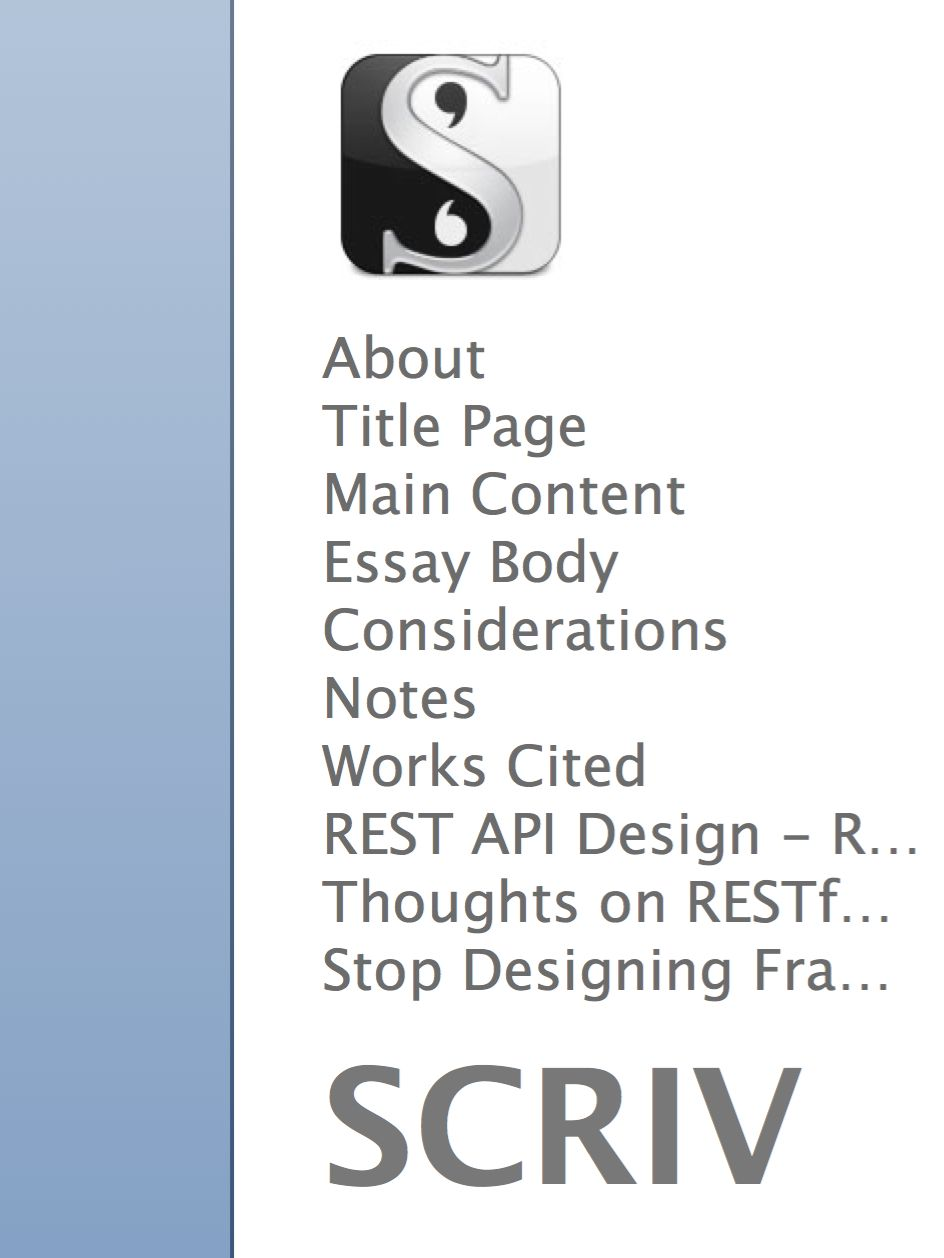
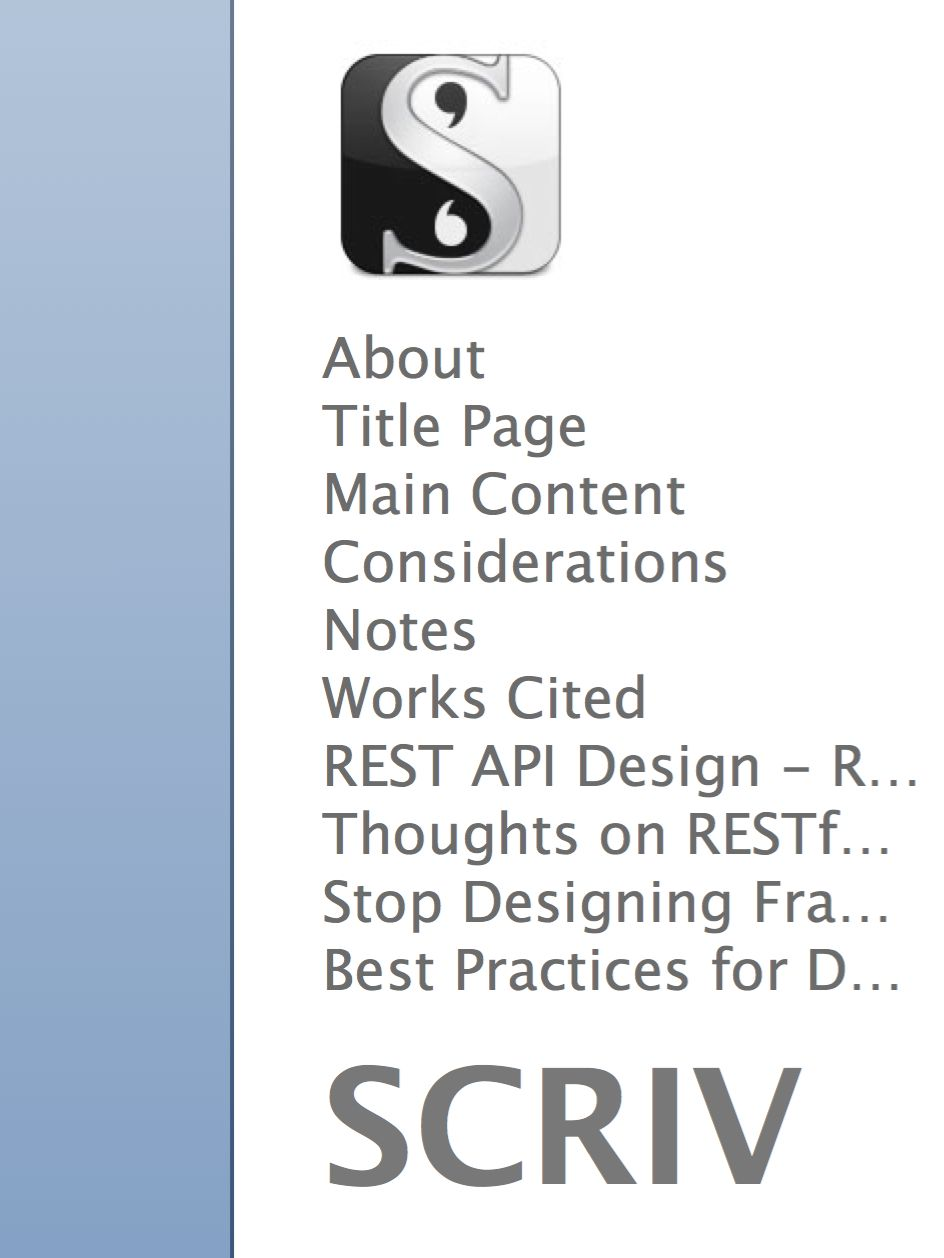
Added notes to github test. Added detail to Considerations.

Changed region(s): [[0.3379, 0.434, 0.9523, 0.806]]

diff --git a/API V2.scriv/QuickLook/Preview.html b/API V2.scriv/QuickLook/Preview.html
@@ -72,15 +72,16 @@ Instructor’s Name<br/>
 <hr/>
 <ul>
 <li>
-<p class="binderItem"><strong>Essay Body</strong></p>
-</li>
-<li>
 <p class="binderItem"><strong>Considerations</strong><br/> • Ease for new users<br/>
  • Ability to do everything we need<br/>
+ ⁃ Dog food<br/>
  • Ease of implementation<br/>
  • Ease of maintenance<br/>
  • Future-resistant<br/>
+ ⁃ Try to make generic enough to handle minor changes without breaking existing apps<br/>
+ ⁃ Use versions for big changes.<br/>
  • Secure<br/>
+ ⁃ HTTPS only (return error if attempt to connect over HTTP)<br/>
  • Explore-able<br/>
  ⁃ Curl<br/>
  ⁃ Web browser<br/>
@@ -89,21 +90,9 @@ Instructor’s Name<br/>
  ⁃ Oauth 2<br/>
  ⁃ Same token for all<br/>
  • Pretty print JSON by default<br/>
- • GZip all data<br/>
-<br/>
-Documentation<br/>
- • Complete<br/>
- • With examples<br/>
- • In multiple languages<br/>
- • Runnable<br/>
-<br/>
-Libraries<br/>
- • In multiple languages<br/>
- • Complete<br/>
- • With example scripts<br/>
-<br/>
-<br/>
-</p>
+ • GZip all data <br/>
+ ⁃ if we aren’t already<br/>
+ ⁃ We rea...</p>
 </li>
 </ul>
 <hr/>
